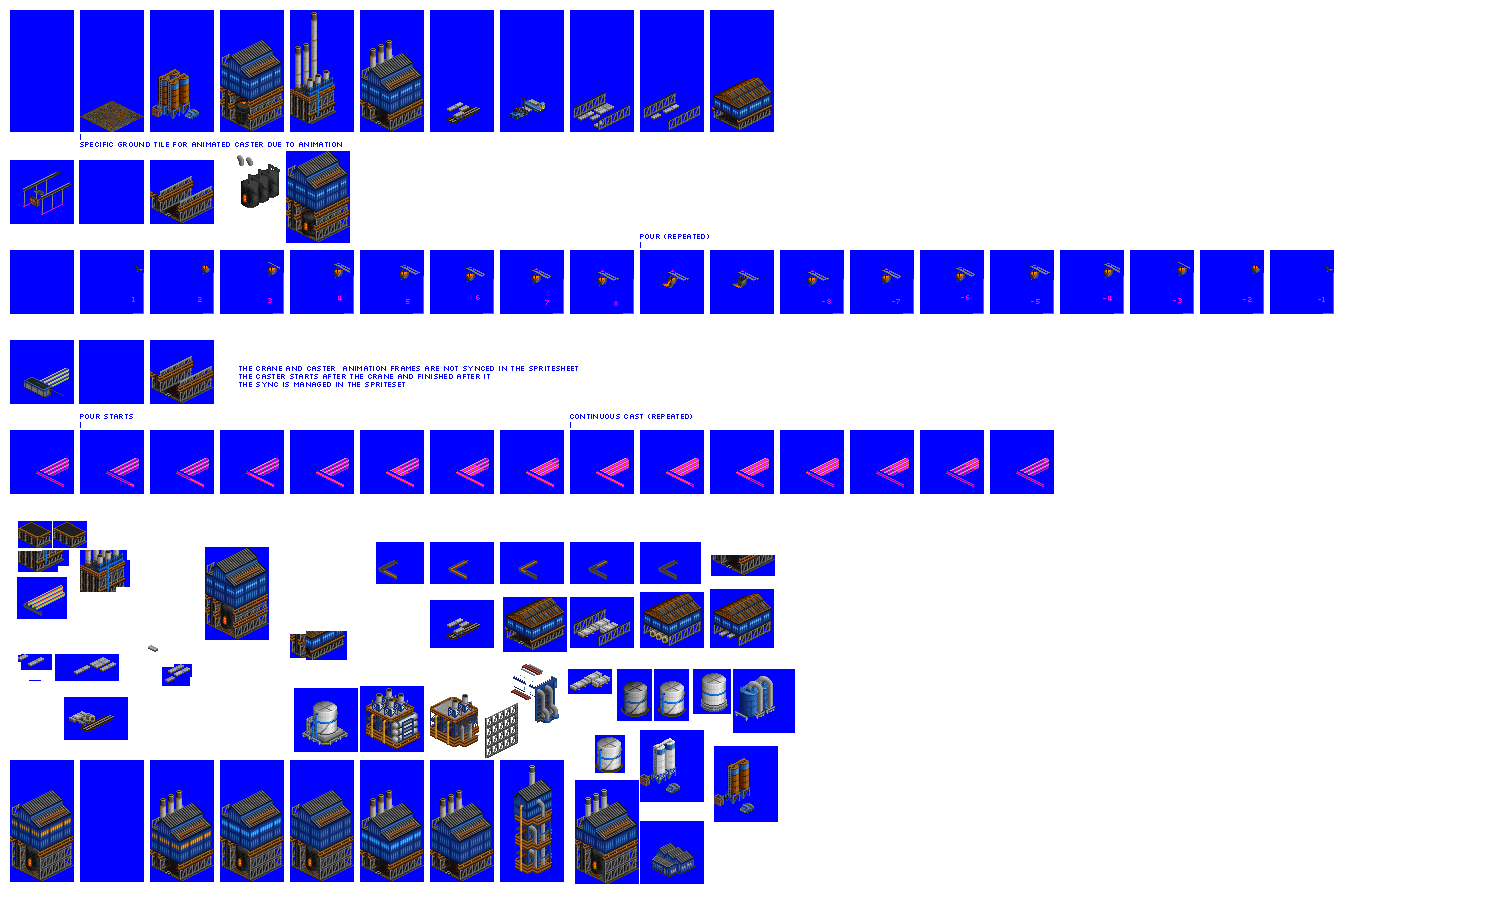
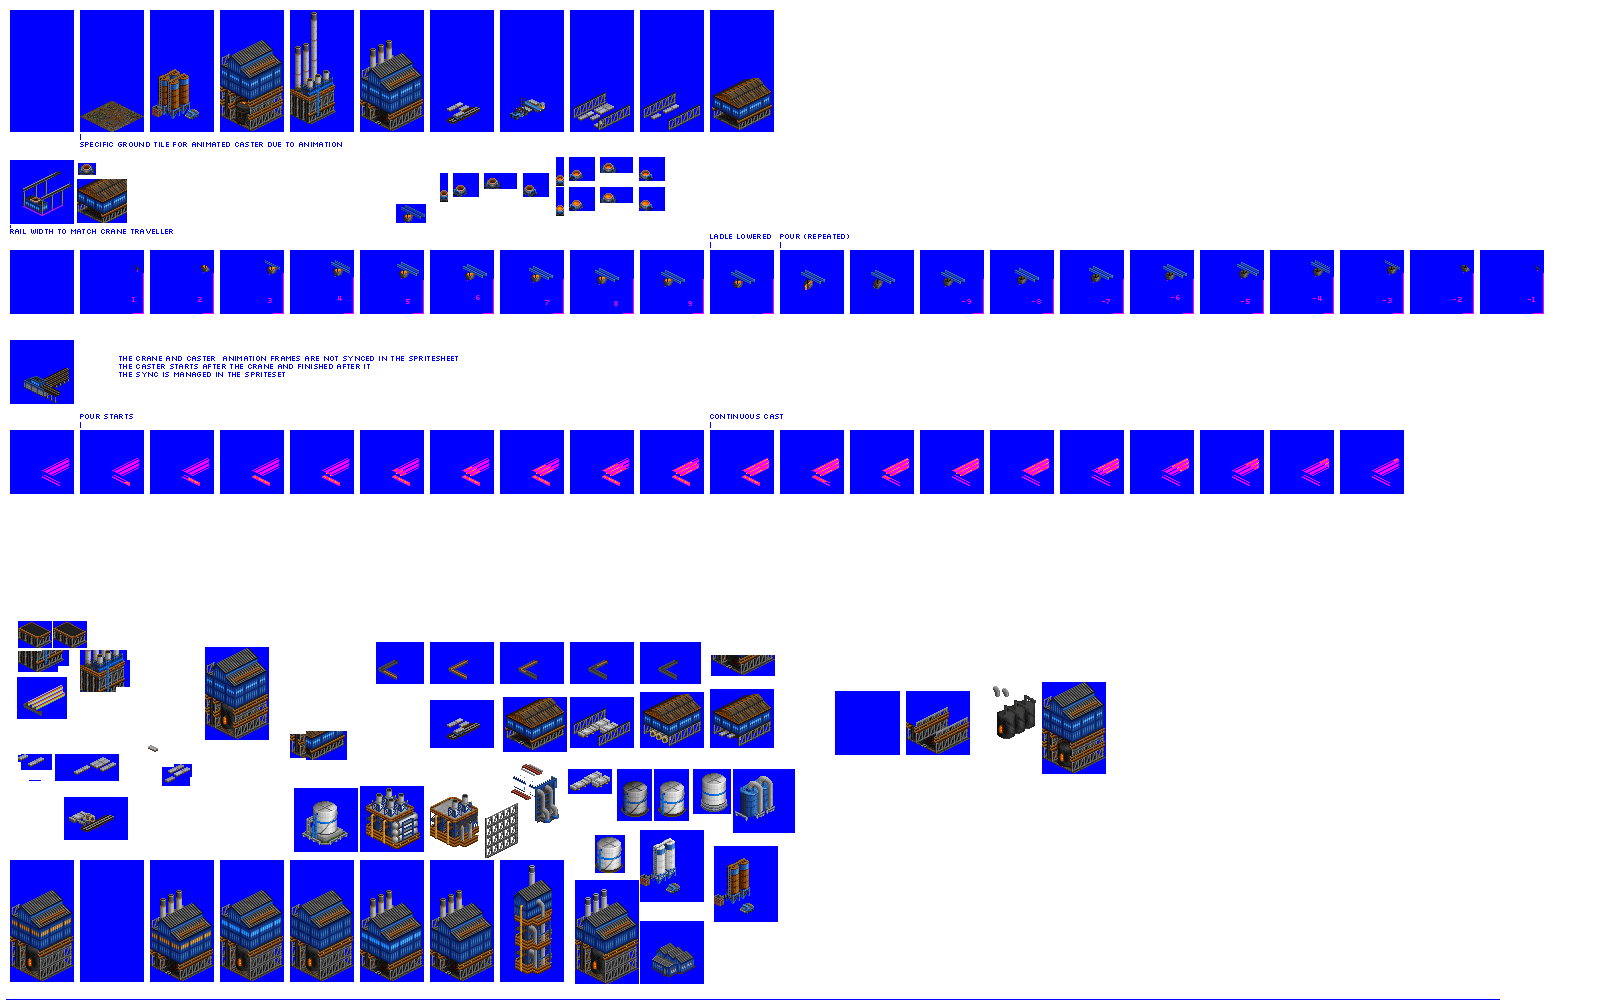
Change: basically complete animation for BOF

diff --git a/src/industries/basic_oxygen_furnace.py b/src/industries/basic_oxygen_furnace.py
@@ -44,9 +44,9 @@ industry.add_tile(
 )
 industry.add_tile(
     id="basic_oxygen_furnace_tile_2",
-    animation_length=28, # should be about 36, 26 is just for testing
+    animation_length=36,
     animation_looping=True,
-    animation_speed=5, # 3 is better, 5 is just for testing
+    animation_speed=4, # 4 is intended, use 5 for slower frame testing when drawing sprites
     location_checks=TileLocationChecks(
         require_effectively_flat=True, disallow_industry_adjacent=True
     ),
@@ -96,15 +96,18 @@ spriteset_caster_crane_animated = industry.add_spriteset(
         (430, 250, 64, 64, -31, -33),
         (500, 250, 64, 64, -31, -33),
         (570, 250, 64, 64, -31, -33),
-        # repeat the pour for 7 frames
-        (640, 250, 64, 64, -31, -33),
-        (640, 250, 64, 64, -31, -33),
-        (640, 250, 64, 64, -31, -33),
-        (640, 250, 64, 64, -31, -33),
-        (640, 250, 64, 64, -31, -33),
-        (640, 250, 64, 64, -31, -33),
         (640, 250, 64, 64, -31, -33),
         (710, 250, 64, 64, -31, -33),
+        # repeat the pour for 10 frames
+        (780, 250, 64, 64, -31, -33),
+        (780, 250, 64, 64, -31, -33),
+        (780, 250, 64, 64, -31, -33),
+        (780, 250, 64, 64, -31, -33),
+        (780, 250, 64, 64, -31, -33),
+        (780, 250, 64, 64, -31, -33),
+        (780, 250, 64, 64, -31, -33),
+        (780, 250, 64, 64, -31, -33),
+        (780, 250, 64, 64, -31, -33),
         (780, 250, 64, 64, -31, -33),
         (850, 250, 64, 64, -31, -33),
         (920, 250, 64, 64, -31, -33),
@@ -113,10 +116,13 @@ spriteset_caster_crane_animated = industry.add_spriteset(
         (1130, 250, 64, 64, -31, -33),
         (1200, 250, 64, 64, -31, -33),
         (1270, 250, 64, 64, -31, -33),
+        (1340, 250, 64, 64, -31, -33),
+        (1410, 250, 64, 64, -31, -33),
+        (1480, 250, 64, 64, -31, -33),
     ],
     animation_rate=1,
     # the offset here acts to extend the animation, and for this case should be the total number of animation frames provided in the spriteset
-    custom_sprite_selector="(animation_frame < 25) ? (animation_frame % 25) : 0",
+    custom_sprite_selector="(animation_frame < 31) ? (animation_frame % 31) : 0",
 )
 spriteset_caster_gantry_animated = industry.add_spriteset(
     sprites=[
@@ -132,7 +138,10 @@ spriteset_ground_tile_animated_crane = industry.add_spriteset(
 )
 spriteset_caster_metal_run_animated = industry.add_spriteset(
     sprites=[
-        # repeat the empty frame until the crane pour starts
+        # repeat the empty frame until the 1 frame after the crane pour starts
+        (10, 430, 64, 64, -31, -33),
+        (10, 430, 64, 64, -31, -33),
+        (10, 430, 64, 64, -31, -33),
         (10, 430, 64, 64, -31, -33),
         (10, 430, 64, 64, -31, -33),
         (10, 430, 64, 64, -31, -33),
@@ -149,19 +158,23 @@ spriteset_caster_metal_run_animated = industry.add_spriteset(
         (360, 430, 64, 64, -31, -33),
         (430, 430, 64, 64, -31, -33),
         (500, 430, 64, 64, -31, -33),
-        # repeat the pour for 2 frames
-        (570, 430, 64, 64, -31, -33),
         (570, 430, 64, 64, -31, -33),
         (640, 430, 64, 64, -31, -33),
+        # continuous casting frame, tried repeating, but looks odd with the pour
         (710, 430, 64, 64, -31, -33),
         (780, 430, 64, 64, -31, -33),
         (850, 430, 64, 64, -31, -33),
         (920, 430, 64, 64, -31, -33),
+        (990, 430, 64, 64, -31, -33),
+        (1060, 430, 64, 64, -31, -33),
+        (1130, 430, 64, 64, -31, -33),
+        (1200, 430, 64, 64, -31, -33),
+        (1270, 430, 64, 64, -31, -33),
+        (1340, 430, 64, 64, -31, -33),
     ],
     animation_rate=1,
     # the offset here acts to extend the animation, and for this case should be the total number of animation frames provided in the spriteset
-    # note the crane and caster have different animation lengths, the caster only needs to be long enough for the pour to run and clear
-    custom_sprite_selector="(animation_frame < 24) ? (animation_frame % 24) : 0",
+    custom_sprite_selector="(animation_frame < 31) ? (animation_frame % 31) : 0",
 )
 spriteset_caster_machinery_animated = industry.add_spriteset(
     sprites=[
